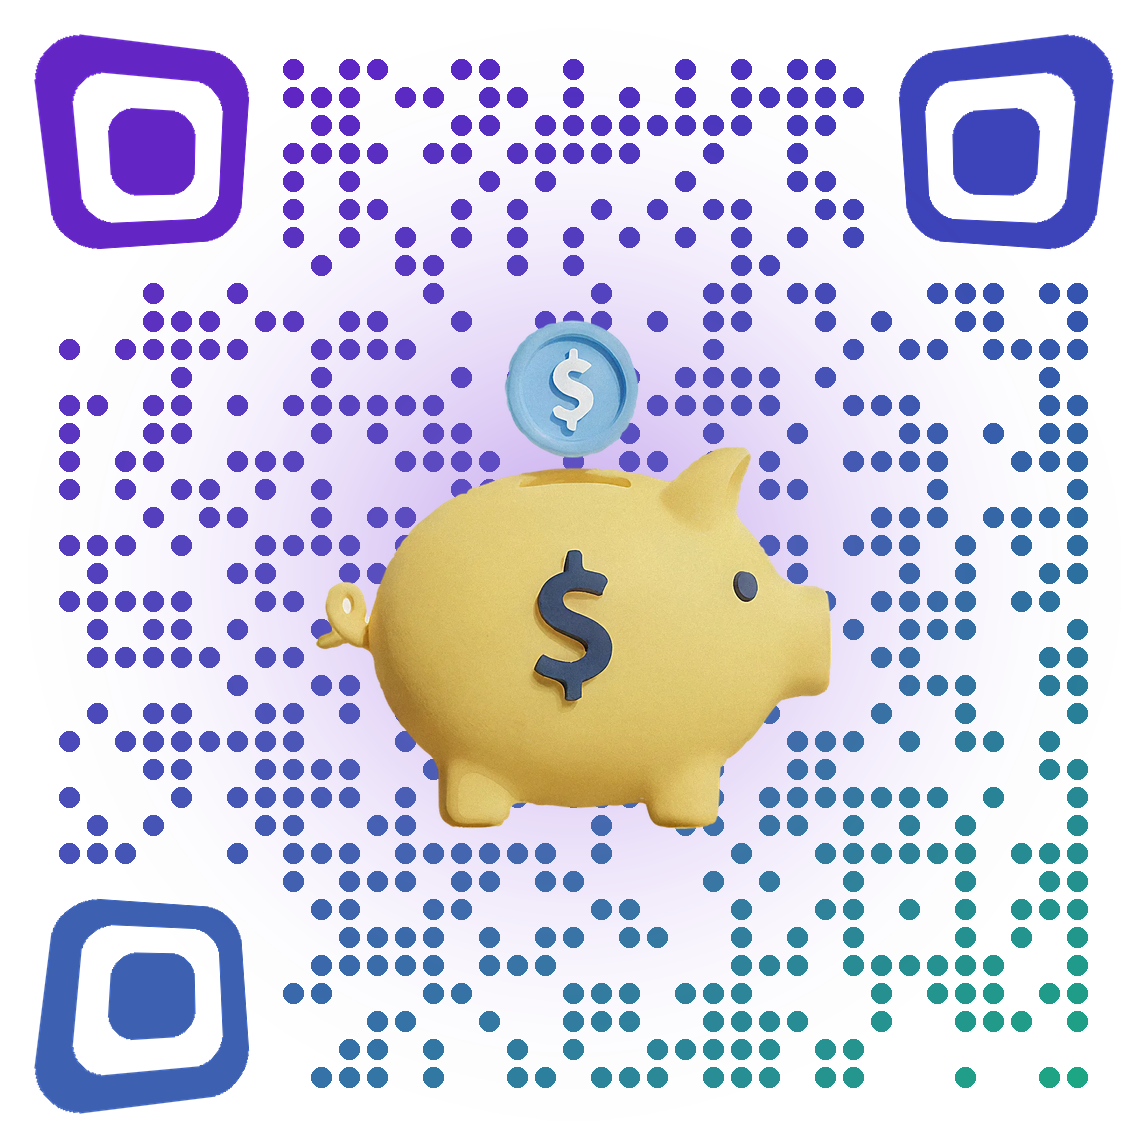
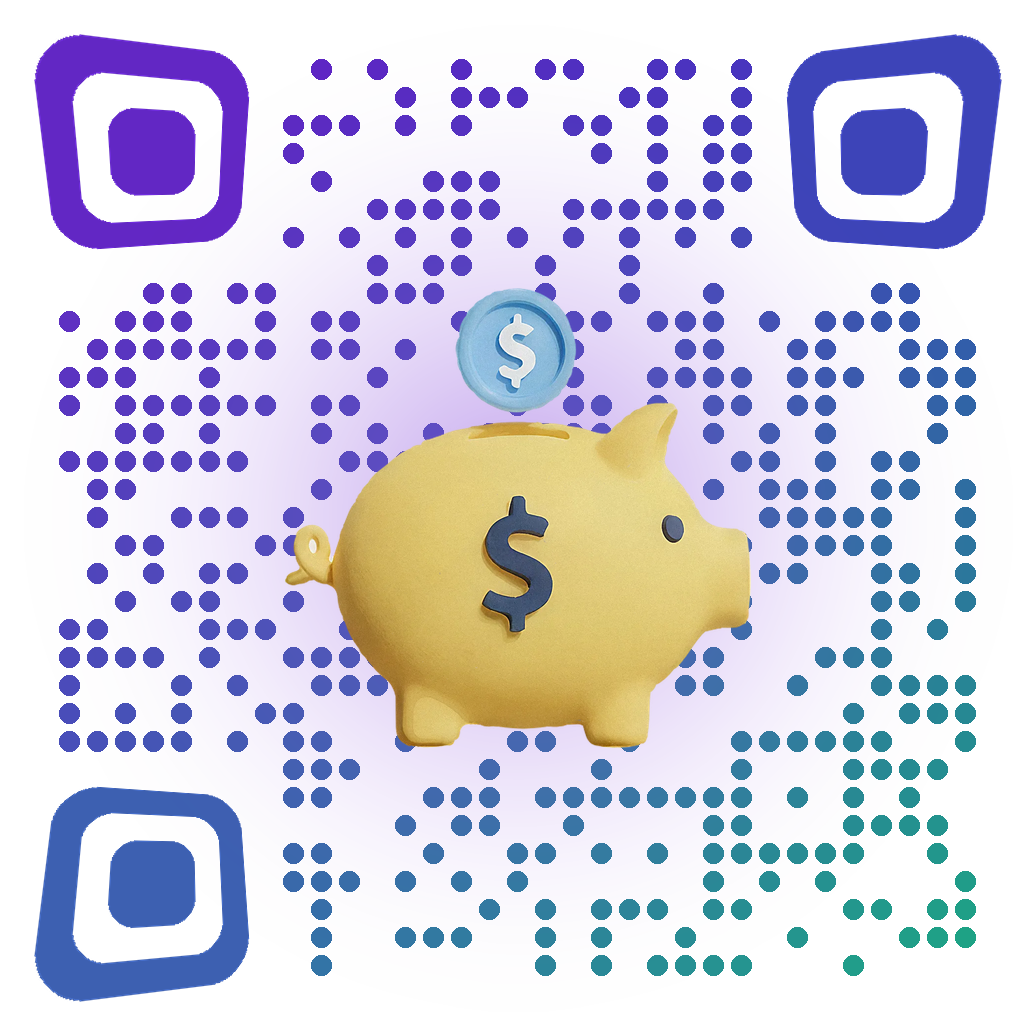
Point QR code and outreach templates at the apex domain
The www host has no valid TLS certificate — https://www.clarencegetsabargain.com
fails the handshake with SEC_E_WRONG_PRINCIPAL. Anything pointing there hands
the reader a browser security warning instead of the site.

generate_qr.py encoded the www URL, so images/clarence-qr.png — a print asset —
sent every scanner to the failing host. Regenerated against the apex; the
shorter URL drops the symbol from version 5 to version 4 (37 to 33 modules),
which also makes it easier to scan at print size.

The outreach playbook and the four pitch-letter templates in research/ carried
www links for the educator toolkit, alignment matrix, press kit, book facts and
procurement packet, so every letter sent from them pointed at the broken host.
Also fixed the v1 lesson-plan draft under downloads/.

Left the two www mentions in seo-aeo-audit-and-plan.md and voice-audit-humor.md
alone — those are prose about the www host, not links to it.

Changed region(s): [[0.0309, 0.0309, 0.9884, 0.9884], [0.8031, 0.9266, 0.8649, 0.9575], [0.0309, 0.278, 0.0618, 0.3089]]

diff --git a/generate_qr.py b/generate_qr.py
@@ -18,7 +18,7 @@ from PIL import Image, ImageDraw, ImageFilter
 ROOT = Path(__file__).resolve().parent
 PIGGY_SRC = ROOT / "images" / "piggy-bank.png"
 OUT_PATH = ROOT / "images" / "clarence-qr.png"
-URL = "https://www.clarencegetsabargain.com"
+URL = "https://clarencegetsabargain.com"
 
 # Gradient endpoints sampled from the reference QR
 TOP_LEFT = (108, 28, 200)     # vivid purple

diff --git a/research/librarian-pitch-letters.md b/research/librarian-pitch-letters.md
@@ -29,9 +29,9 @@ Two requests come to your desk all week. A kid wants a robot book. A parent want
 
 Here's the collection-development case, with the qualifier a librarian will appreciate: most money picture books cover earning or saving. To our knowledge, this is the first narrative picture book for this age group that traces the whole consumer arc — wish through receipt. It fills a hole in the money shelf rather than adding a fourth piggy-bank book to it.
 
-**Cataloging data:** ISBN 979-8-234-07638-0 · LCCN 2026906164 · hardbound, case bound, full color, 11×8.5″ · Est. Lexile AD 620L, Guided Reading L–N · $19.99. Full record: www.clarencegetsabargain.com/book-facts.html
+**Cataloging data:** ISBN 979-8-234-07638-0 · LCCN 2026906164 · hardbound, case bound, full color, 11×8.5″ · Est. Lexile AD 620L, Guided Reading L–N · $19.99. Full record: clarencegetsabargain.com/book-facts.html
 
-**Programming, done for you.** The site carries a free program kit that needs no prep budget: printable price tags and clearance stickers for a pretend store, a five-question Smart Shopper Quiz with a printable certificate, an interactive Sea-Mart register kids run themselves, and discussion guides. If you build programming for Financial Literacy Month or Money Smart Week, a storytime plus the pretend store is a complete event. Everything: www.clarencegetsabargain.com/educator-toolkit.html
+**Programming, done for you.** The site carries a free program kit that needs no prep budget: printable price tags and clearance stickers for a pretend store, a five-question Smart Shopper Quiz with a printable certificate, an interactive Sea-Mart register kids run themselves, and discussion guides. If you build programming for Financial Literacy Month or Money Smart Week, a storytime plus the pretend store is a complete event. Everything: clarencegetsabargain.com/educator-toolkit.html
 
 The book is endorsed by a veteran K–5 educator with 30+ years in the classroom and by the 2026 EIFLE Educator of the Year. I'm also glad to do an author visit or virtual storytime — I illustrate live and I take questions from six-year-olds very seriously.
 
@@ -40,7 +40,7 @@ Review copy on request. Thanks for what you do at that desk.
 Jonathan Bach
 Author & illustrator, *Clarence Gets a Bargain*
 Attorney. Dad. Keeper of receipts.
-questions@clarencegetsabargain.com · www.clarencegetsabargain.com
+questions@clarencegetsabargain.com · clarencegetsabargain.com
 
 ---
 
@@ -56,11 +56,11 @@ Thirty states now guarantee a personal finance course — in high school. Money 
 
 *Clarence Gets a Bargain* is a 36-page picture book, grades 1–5, that walks one kid through one complete purchase: earning the reward, researching the sale ads, comparison shopping in the aisle, a clearance markdown, a coupon at the register, sales tax on the receipt — and the receipt photographed and kept, because that's what makes returns and warranty claims possible. The story leads; the money concepts ride inside the plot. A 21-term back-matter glossary cross-references each definition to the story page where it happens, so vocabulary review points kids back into the book instead of away from it.
 
-**The teacher-collaboration case.** The read-aloud runs 15–20 minutes — one class period with discussion. The free companion toolkit is built for the teachers you support: four 45-minute lesson plans, a discussion guide, pre/post assessments with answer key, family take-home activities, and a standards chart mapped to Jump$tart, Common Core Math, Common Core ELA, CEE, and FDIC Money Smart. No sign-up wall. Print and hand to your third-grade team: www.clarencegetsabargain.com/educator-toolkit.html
+**The teacher-collaboration case.** The read-aloud runs 15–20 minutes — one class period with discussion. The free companion toolkit is built for the teachers you support: four 45-minute lesson plans, a discussion guide, pre/post assessments with answer key, family take-home activities, and a standards chart mapped to Jump$tart, Common Core Math, Common Core ELA, CEE, and FDIC Money Smart. No sign-up wall. Print and hand to your third-grade team: clarencegetsabargain.com/educator-toolkit.html
 
-**Specs for the record:** ISBN 979-8-234-07638-0 · LCCN 2026906164 · hardbound, case bound, full color, 11×8.5″ · Est. Lexile AD 620L, Guided Reading L–N · $19.99. Full data: www.clarencegetsabargain.com/book-facts.html
+**Specs for the record:** ISBN 979-8-234-07638-0 · LCCN 2026906164 · hardbound, case bound, full color, 11×8.5″ · Est. Lexile AD 620L, Guided Reading L–N · $19.99. Full data: clarencegetsabargain.com/book-facts.html
 
-**Purchasing is built for schools.** POs accepted, Net 30, W-9 on request, sole-source justification letter available, Title I pricing for bulk orders. Vendor packet: www.clarencegetsabargain.com/resources/procurement.html
+**Purchasing is built for schools.** POs accepted, Net 30, W-9 on request, sole-source justification letter available, Title I pricing for bulk orders. Vendor packet: clarencegetsabargain.com/resources/procurement.html
 
 Endorsed by a veteran K–5 educator with 30+ years in the classroom and by the 2026 EIFLE Educator of the Year. Author visits — in person or virtual — are on the table; I illustrate live and I've never lost a Q&A to a fifth grader, though several have come close.
 
@@ -69,7 +69,7 @@ Review copy on request. Thanks for reading.
 Jonathan Bach
 Author & illustrator, *Clarence Gets a Bargain*
 Attorney. Dad. Keeper of receipts.
-questions@clarencegetsabargain.com · www.clarencegetsabargain.com
+questions@clarencegetsabargain.com · clarencegetsabargain.com
 
 ---
 

diff --git a/downloads/drafts/02-lesson-plans.md b/downloads/drafts/02-lesson-plans.md
@@ -39,7 +39,7 @@ By the end of this lesson, students will:
 
 ### Materials
 - Clarence Gets a Bargain (1 copy, or projected pages)
-- 10 Wants vs. Needs sort cards — print page 1 of the [Curriculum Companion](https://www.clarencegetsabargain.com/resources/curriculum-companion.html#sort-cards), cut along dashed lines
+- 10 Wants vs. Needs sort cards — print page 1 of the [Curriculum Companion](https://clarencegetsabargain.com/resources/curriculum-companion.html#sort-cards), cut along dashed lines
 - Whiteboard / chart paper
 - Crayons or markers
 
@@ -93,7 +93,7 @@ By the end of this lesson, students will:
 ### Materials
 - Clarence Gets a Bargain
 - 3–4 real sale flyers from different stores (Sunday paper inserts work — collect ahead)
-- Comparison worksheet — print page 2 of the [Curriculum Companion](https://www.clarencegetsabargain.com/resources/curriculum-companion.html#worksheet) (one per pair)
+- Comparison worksheet — print page 2 of the [Curriculum Companion](https://clarencegetsabargain.com/resources/curriculum-companion.html#worksheet) (one per pair)
 - Scissors (one pair per pair of kids)
 - A few sample paper coupons to model (10% off, 25¢ off, BOGO)
 
@@ -148,9 +148,9 @@ By the end of this lesson, students will:
 ### Materials
 - Clarence Gets a Bargain
 - Two near-identical classroom items at different prices (one "marked down")
-- Clearance stickers — print page 3 of the [Curriculum Companion](https://www.clarencegetsabargain.com/resources/curriculum-companion.html#stickers) (12 per page, orange and yellow alternating)
-- Mock price tags — print page 4 of the [Curriculum Companion](https://www.clarencegetsabargain.com/resources/curriculum-companion.html#tags) (one regular, one clearance)
-- 10% OFF clearance coupons — print page 5 of the [Curriculum Companion](https://www.clarencegetsabargain.com/resources/curriculum-companion.html#coupons) (4 per page)
+- Clearance stickers — print page 3 of the [Curriculum Companion](https://clarencegetsabargain.com/resources/curriculum-companion.html#stickers) (12 per page, orange and yellow alternating)
+- Mock price tags — print page 4 of the [Curriculum Companion](https://clarencegetsabargain.com/resources/curriculum-companion.html#tags) (one regular, one clearance)
+- 10% OFF clearance coupons — print page 5 of the [Curriculum Companion](https://clarencegetsabargain.com/resources/curriculum-companion.html#coupons) (4 per page)
 - Play money or printable coins
 - Calculators (grades 3–5)
 - Optional: image of a real clearance sign (orange or yellow) to project at warm-up

diff --git a/outreach-playbook.md b/outreach-playbook.md
@@ -173,14 +173,14 @@ opens "Dear Team" gets filed accordingly.
 > It's built against Jump$tart National Standards, Common Core Math and ELA, CEE,
 > and FDIC Money Smart. The crosswalk maps every concept to the specific standard,
 > so you can check the alignment claim rather than take my word for it:
-> https://www.clarencegetsabargain.com/resources/curriculum-alignment-matrix.html
+> https://clarencegetsabargain.com/resources/curriculum-alignment-matrix.html
 >
 > Nothing in it sells a financial product. There's no sponsor and no bank behind
 > it. It was reviewed by Maryann Milewski Moskal, a K–5 teacher with 30+ years in
 > the classroom, and endorsed by Wally Luckeydoo, Ed.D., your 2026 Corey Carlisle
 > Award recipient.
 >
-> Toolkit: https://www.clarencegetsabargain.com/educator-toolkit.html
+> Toolkit: https://clarencegetsabargain.com/educator-toolkit.html
 >
 > Happy to send whatever the listing criteria need.
 >
@@ -210,7 +210,7 @@ opens "Dear Team" gets filed accordingly.
 > Smart. 21-term glossary with page references in the back.
 >
 > Free classroom materials, no gate:
-> https://www.clarencegetsabargain.com/educator-toolkit.html
+> https://clarencegetsabargain.com/educator-toolkit.html
 >
 > Glad to send a review copy.
 >
@@ -237,7 +237,7 @@ opens "Dear Team" gets filed accordingly.
 > a full crosswalk. Lexile AD 620L. LCCN 2026906164. Free lesson plans, discussion
 > guide, and assessments, all ungated.
 >
-> https://www.clarencegetsabargain.com/educator-toolkit.html
+> https://clarencegetsabargain.com/educator-toolkit.html
 >
 > Review copies ready whenever you are.
 >

diff --git a/research/cfp-pitch-letter.md b/research/cfp-pitch-letter.md
@@ -48,14 +48,14 @@ Why this belongs in your practice:
 
 **Your compliance officer will not blink.** It's a $19.99 children's book, not a soft-dollar problem. It is endorsed by a veteran K–5 educator with 30+ years in the classroom and by the 2026 EIFLE Educator of the Year, so it also survives the client who googles everything.
 
-Specs, if you're the diligence type (you are): ISBN 979-8-234-07638-0, LCCN 2026906164, hardbound, full color, est. Lexile AD 620L. Full reference: www.clarencegetsabargain.com/book-facts.html. Bulk and gifting orders: orders@clarencegetsabargain.com — POs and Net 30 accepted.
+Specs, if you're the diligence type (you are): ISBN 979-8-234-07638-0, LCCN 2026906164, hardbound, full color, est. Lexile AD 620L. Full reference: clarencegetsabargain.com/book-facts.html. Bulk and gifting orders: orders@clarencegetsabargain.com — POs and Net 30 accepted.
 
 Twenty-five copies run $499.75. If one of those twenty-five families opens one 529 you'd have missed — or one heir stays put in 2046 because your firm was part of the furniture — the box paid for itself several hundred times over. You can check my math; it's that kind of book.
 
 Jonathan Bach
 Author & illustrator, *Clarence Gets a Bargain*
 Attorney. Dad. Keeper of receipts.
-questions@clarencegetsabargain.com · www.clarencegetsabargain.com
+questions@clarencegetsabargain.com · clarencegetsabargain.com
 
 ---
 

diff --git a/research/media-pitch-letter.md b/research/media-pitch-letter.md
@@ -45,7 +45,7 @@ The book is endorsed by a 30-year veteran K–5 educator and by the 2026 EIFLE E
 
 I'm available for interviews, guest segments, written Q&As, and speaking dates for parent, teacher, and financial-education audiences. I keep answers short, I don't do jargon, and I bring the shoes story.
 
-Everything you'd need is at one link: **www.clarencegetsabargain.com/press-kit.html** — bios in three lengths, cover art, the fact sheet, and suggested interview questions. Full specs for fact-checkers: www.clarencegetsabargain.com/book-facts.html.
+Everything you'd need is at one link: **clarencegetsabargain.com/press-kit.html** — bios in three lengths, cover art, the fact sheet, and suggested interview questions. Full specs for fact-checkers: clarencegetsabargain.com/book-facts.html.
 
 Thanks for reading this far. The kid gets the robot; your audience gets the reason he deserved it.
 
@@ -53,7 +53,7 @@ Jonathan Bach
 Author & illustrator, *Clarence Gets a Bargain*
 Attorney. Dad. Keeper of receipts.
 questions@clarencegetsabargain.com
-www.clarencegetsabargain.com
+clarencegetsabargain.com
 
 ---
 

diff --git a/research/parents-grandparents-letter.md b/research/parents-grandparents-letter.md
@@ -52,7 +52,7 @@ The whole book runs 15 to 20 minutes out loud. Your kid will reread it alone aft
 Jonathan Bach
 Author & illustrator, *Clarence Gets a Bargain*
 Attorney. Dad. Keeper of receipts.
-www.clarencegetsabargain.com
+clarencegetsabargain.com
 
 P.S. — When you finish, the back of the book has a 21-term glossary where every definition points to the page where it happened in the story. If a word comes up at the store next week, you can both look it up and land on a scene you read together. That's not a glossary; that's a memory with page numbers.
 
